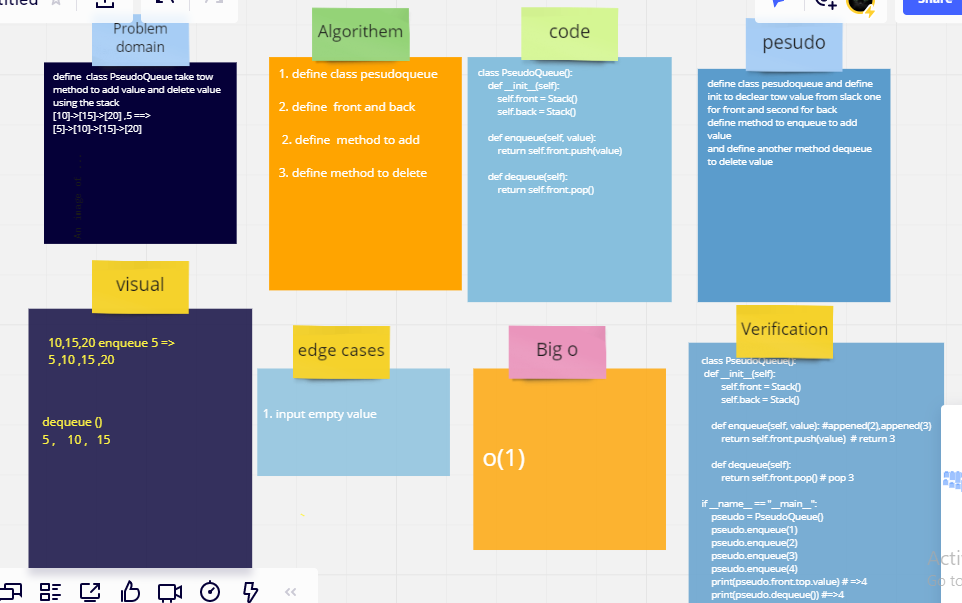
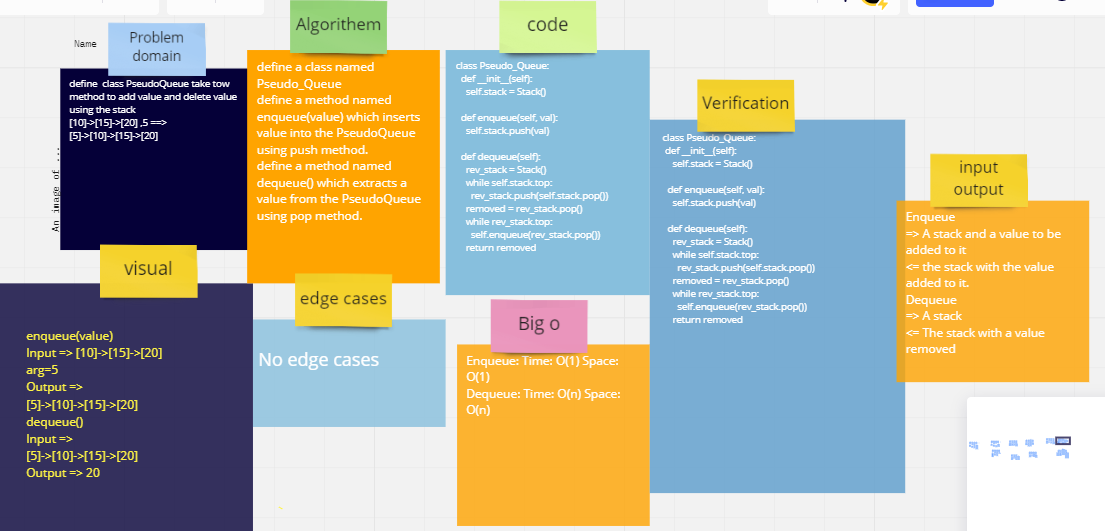
done

diff --git a/queue-with-stacks/queue_with_stacks/queue_with_stacks.py b/queue-with-stacks/queue_with_stacks/queue_with_stacks.py
@@ -1,114 +1,47 @@
-
 class Node:
-    def __init__(self, value):
-        self.value = value
-        self.next = None
-        
-
-
+  def __init__(self, val, next_node = None):
+    self.value = val
+    self.next = next_node
 class Stack:
-    def __init__(self):
-        self.top = None
+  def __init__(self, top = None):
+    self.top = top
 
-    def push(self, value):
-        node = Node(value)
-        node.next = self.top
-        self.top = node
-        
-    def pop(self):
-       try:
-            temp=self.top
-            if temp:
-                    self.top = self.top.next
-                    self.top.next == None
-                    return temp.value
-            else:
-                    raise Exception ('Stack is Empty')
-       except:
-           return 'Stack is Empty'
+  def push(self, value):
+    new_top = Node(value, self.top)
+    self.top = new_top
 
-           
-    def peek(self):
+  def pop(self):
+    if not isinstance(self.top, Node):
+      raise EmptyListError
+    removed = self.top
+    self.top = self.top.next
+    return removed.value
 
-        try:
+  def peek(self):
+    if isinstance(self.top, Node):
+      return self.top.value
+    raise EmptyListError
 
-            if self.top:
-                 return self.top.value
-            else:
-                raise Exception ('Stack is Empty')
+  def is_empty(self):
+    if self.top:
+      return False
+    return True
 
-        except:
-            return 'is empty'
+class EmptyListError(AssertionError):
+  pass
 
-    def is_empty(self): 
-        return self.top == None
+class Pseudo_Queue:
+  def __init__(self):
+    self.stack = Stack()
 
+  def enqueue(self, val):
+    self.stack.push(val)
 
-class Queue:
-    def __init__(self):
-        self.front = None
-        self.rear = None
-    def enqueue(self, value):
-        node = Node(value)
-        if not self.rear:
-            self.front = node
-            self.rear = node
-        else:
-            self.rear.next = node
-            self.rear = node
-
-    def dequeue(self):
-
-        try:
-            if self.front:
-                temp = self.front
-                temp2 = temp.next
-                self.front = temp2
-                return temp.value
-            else:
-                 raise Exception ('Queue is Empty')
-        except:
-            return('Queue is Empty')
-
-    def peek(self):
-        try:
-            if self.front:
-                return self.front.value
-            else:
-                raise Exception ('Queue is Empty')
-        except:
-            return 'is empty'
-
-    def is_empty(self):
-        return self.front==None
-
-
-#//////////////////////////////////////// code challenge 11 /////////////////////////////////////////////////////#    
-
-class PseudoQueue():
-    def __init__(self):
-        self.front = Stack()
-        self.back = Stack()
-
-    def enqueue(self, value):
-        return self.front.push(value)
-
-    def dequeue(self):
-        return self.front.pop()
-
-
-    
-if __name__ == "__main__":
-    pseudo = PseudoQueue()
-    pseudo.enqueue(1)
-    pseudo.enqueue(2)
-    pseudo.enqueue(3)
-    pseudo.enqueue(4)
-    print(pseudo.front.top.value)
-    print(pseudo.dequeue())
-    pseudo.enqueue(7)
-    print(pseudo.front.top.value)
-    print(pseudo.dequeue())
- 
-
-
+  def dequeue(self):
+    rev_stack = Stack()
+    while self.stack.top:
+      rev_stack.push(self.stack.pop())
+    removed = rev_stack.pop()
+    while rev_stack.top:
+      self.enqueue(rev_stack.pop())
+    return removed

diff --git a/queue-with-stacks/tests/test_queue_with_stacks.py b/queue-with-stacks/tests/test_queue_with_stacks.py
@@ -3,3 +3,35 @@ from queue_with_stacks import __version__
 
 def test_version():
     assert __version__ == '0.1.0'
+
+import pytest
+
+
+from queue_with_stacks.queue_with_stacks import Pseudo_Queue as Queue
+from queue_with_stacks.queue_with_stacks import EmptyListError
+
+
+
+def test_making_queue():
+  assert Queue()
+
+
+
+def test_one_value():
+  queue = Queue()
+  queue.enqueue(1)
+  assert 1 == queue.dequeue()
+
+def test_one_multivalues():
+  queue = Queue()
+  for i in range(10):
+    queue.enqueue(i)
+  assert 0 == queue.dequeue()
+  assert 1 == queue.dequeue()
+  assert 2 == queue.dequeue()
+
+
+def test_dequeue_empty():
+  queue = Queue()
+  with pytest.raises(EmptyListError):
+    queue.dequeue()
